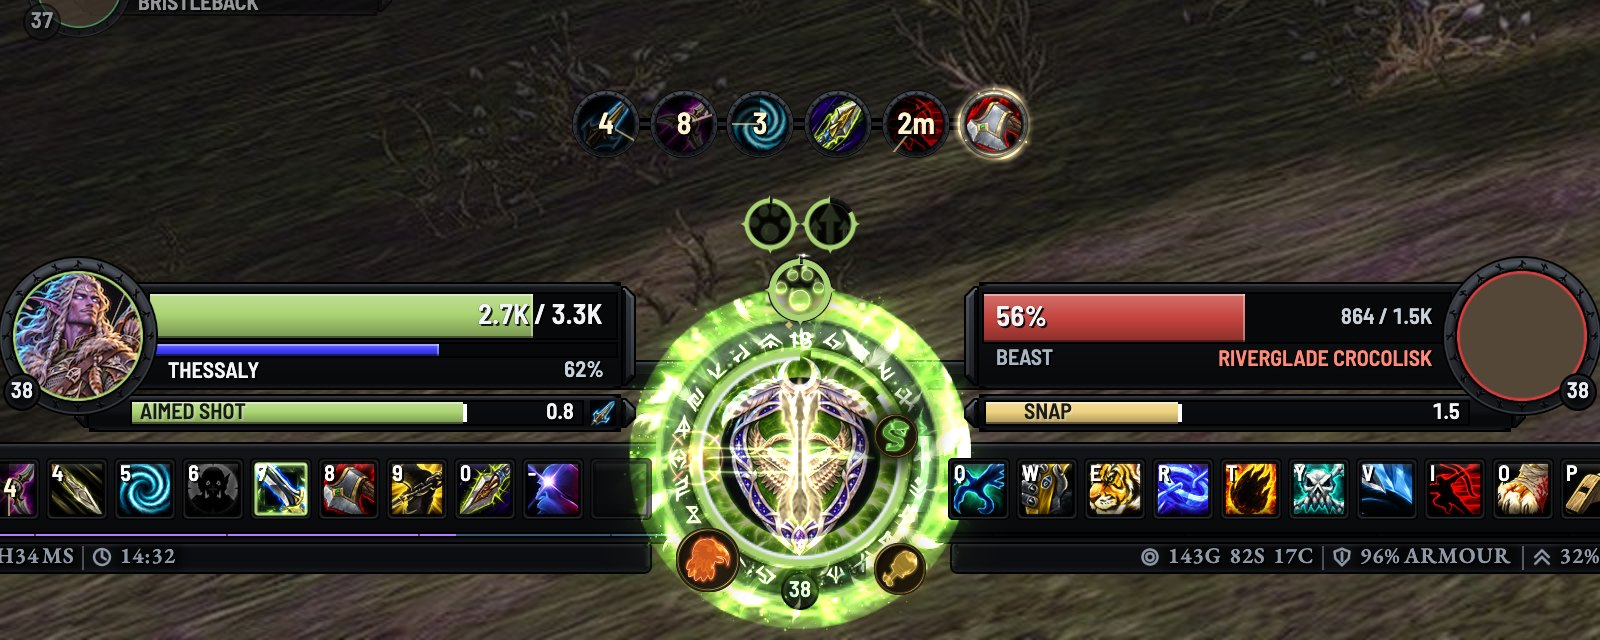
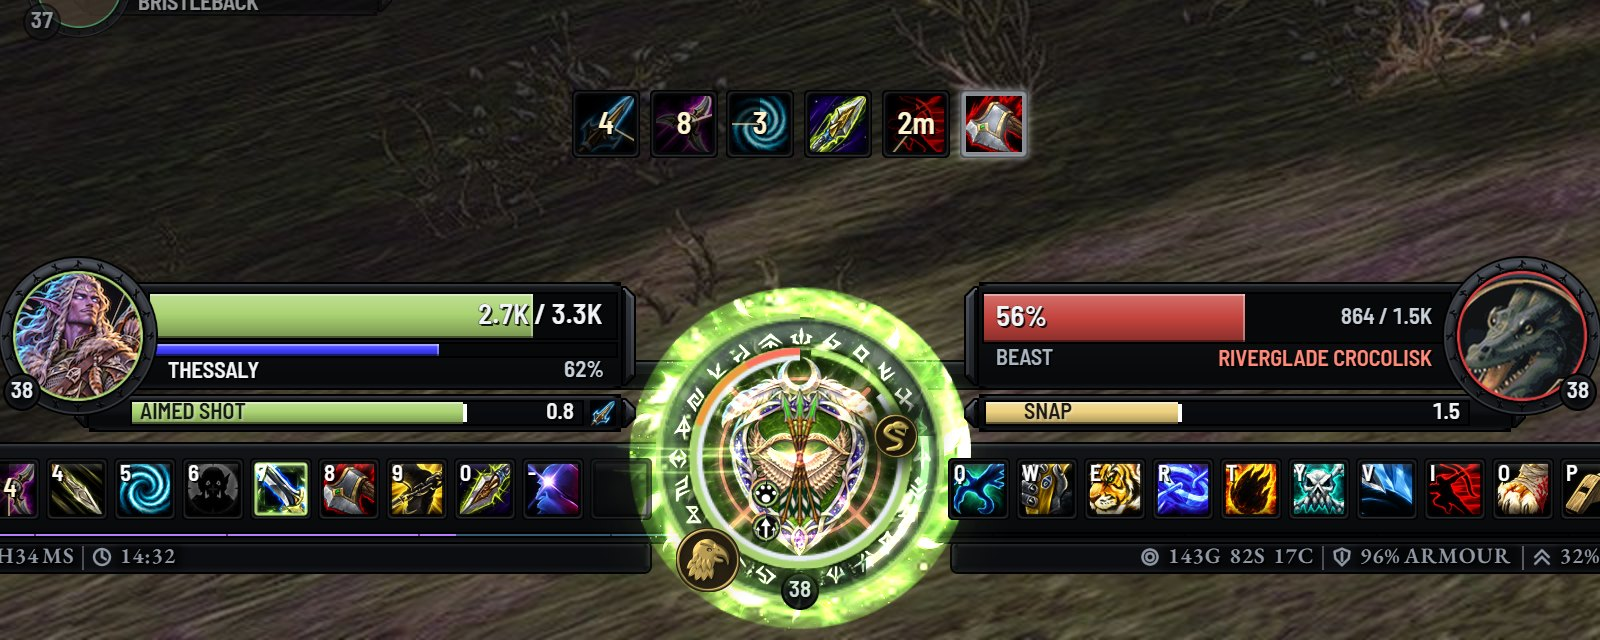
docs(actionbars): keep the earlier hunter crest picture with a caption saying when it was taken
The retaken picture lost the target portrait, whose render fixture is
not available, so the earlier picture stays, labelled as taken before
the hunter's marks became animated auras.

diff --git a/KstyleUI_ActionBars/README.md b/KstyleUI_ActionBars/README.md
@@ -178,7 +178,9 @@ A hunter's, mage's or warlock's **Cooldown rail** (on by default, Medallions onl
 
 A class joins the rail with `SlabRail.Register(class, data)` in its tracker file: `data.abilities` maps a key to `{ spells, buffs, sigil, unit, items, casts }` (spells highest rank first, as `Medals.Known` takes the first known; `buffs` the aura ids when they differ from the spells; `sigil` a sigil token, else the spell's own round icon; `unit` set only for a buff that lifts to the crown; `items` for a cooldown that belongs to an item the spell makes, such as the warlock's Soulstone, whose medal then reads the items' shared cooldown, and `casts` the item's use spells, which press the medal), `data.majors` lists the class's long cooldowns in order, `data.overflow` the ones that stand only on the second rail, after the class's other long cooldowns and before the racials; the settings list does not offer them and neither a pick nor a fallback seats them, `data.trees` gives one `{ majors, fill }` per talent tree, `data.signs` one list of signature spells per tree for the fallback guess, and `data.color` and `data.burst` the class's glow and burst. The racials (shared with `SlabTrackers.RACIALS`) and the trinket are added by the rail; the trinket keeps the fifth place even when fewer than four abilities are known. A second-rail medal shrinks to a 4-unit spark and runs a lane to the crown (8 units above the crown on the arc, 22 under the row on the low row), then pops on landing, and folds home the same way backwards, because at full size every path crosses another medal or a unit frame (the lane under the end seats is 9 units). A Soulstone medal is pressed by using the stone, not by conjuring one, and keeps its state while the stone's cooldown is hidden. A seat picked in the settings keeps its number even when the seats before it stay empty. While the rail holds Death Coil, the warlock's Death Coil orb stands down so one cooldown is not drawn twice.
 
-![KstyleUI test render over an in-game screenshot: a hunter's crest with Aspect of the Hawk's head burning as a gilt aura in its socket on the ring, Serpent Sting's mark burning at the head of its fuse and the ready shot's arrows over the emblem](../docs/media/readme/hunter_marks.jpg)
+![KstyleUI test render over an in-game screenshot, taken before a hunter's marks became animated auras: a hunter's crest with a gold hawk's head perched on the ring for Aspect of the Hawk and a Serpent Sting burning down the band](../docs/media/readme/hunter_marks.jpg)
+
+*The hunter's crest as it stood before its marks became animated auras in sockets; a new picture waits for a render with the target portrait.*
 
 ### Healer trackers
 
